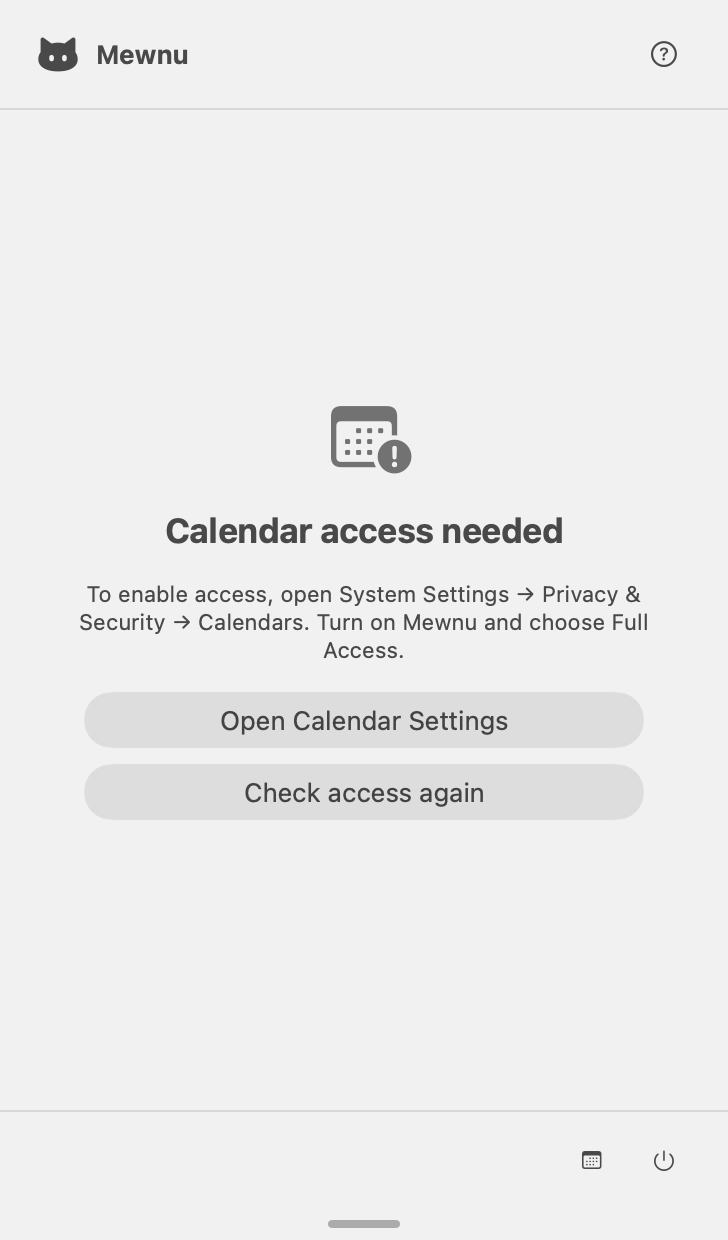
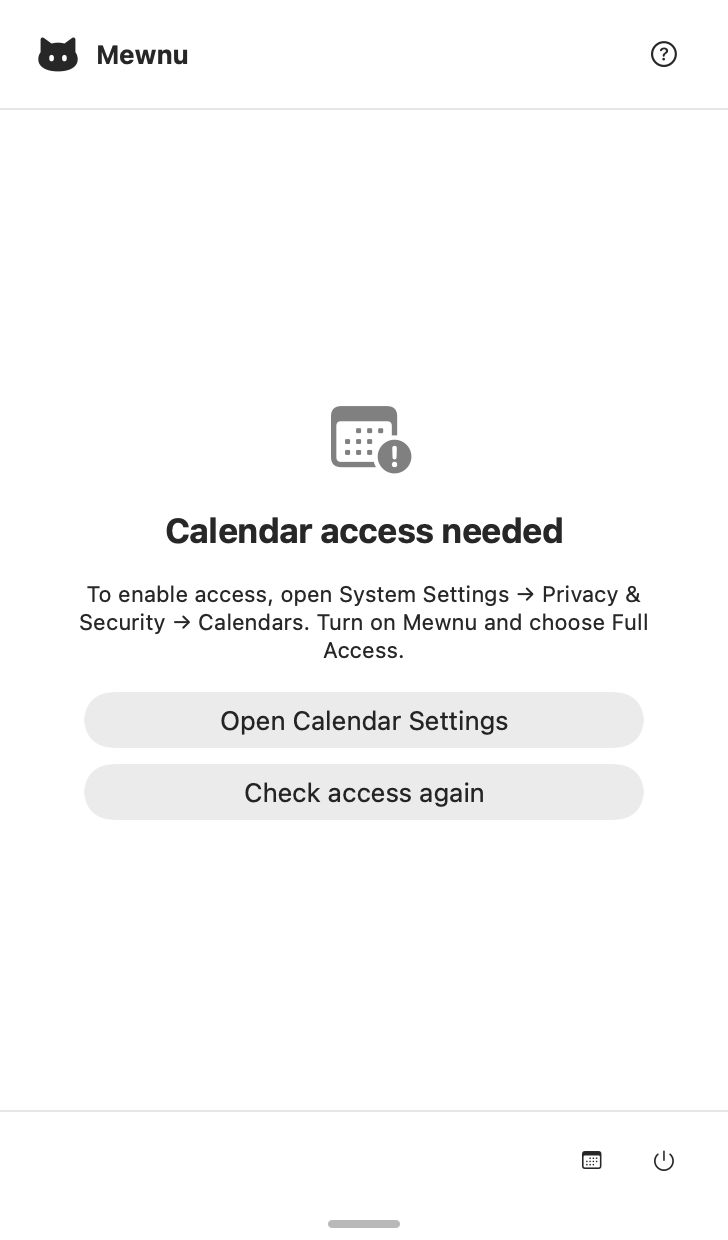
Improve menu contrast in light appearance

diff --git a/Mewnu/Views/MonthGridView.swift b/Mewnu/Views/MonthGridView.swift
@@ -47,7 +47,7 @@ struct MonthGridView: View {
             VStack(spacing: 2) {
                 Text("\(calendar.component(.day, from: date))")
                     .font(.system(size: 13, weight: isSelected ? .bold : (isToday ? .semibold : .regular)))
-                    .foregroundStyle(isSelected ? .white : (isToday ? Color.accentColor : (isCurrentMonth ? .primary : .secondary)))
+                    .foregroundStyle(isSelected ? .white : (isCurrentMonth ? .primary : .secondary))
                 HStack(spacing: 2) {
                     ForEach(indicators.dots) { item in
                         Circle()

diff --git a/MewnuUITests/MewnuUITests.swift b/MewnuUITests/MewnuUITests.swift
@@ -149,7 +149,9 @@ final class MewnuUITests: XCTestCase {
         app.launchArguments.append("-ui-testing")
         app.launch()
         let statusItem = openMenu(app)
-        XCTAssertTrue(app.staticTexts["monthTitle"].waitForExistence(timeout: 5))
+        let monthTitle = app.staticTexts["monthTitle"]
+        if !monthTitle.waitForExistence(timeout: 5) { statusItem.click() }
+        XCTAssertTrue(monthTitle.waitForExistence(timeout: 5))
         app.buttons["nextMonthButton"].click()
         app.buttons["todayButton"].click()
         app.buttons["calendarFilterButton"].click()

diff --git a/scripts/documentation-screenshots.swift b/scripts/documentation-screenshots.swift
@@ -63,7 +63,9 @@ private struct DocumentationScreenshots {
     static func main() {
         let app = NSApplication.shared
         app.setActivationPolicy(.prohibited)
-        app.appearance = NSAppearance(named: .aqua)
+        let appearance: NSAppearance.Name = ProcessInfo.processInfo.environment["MEWNU_SCREENSHOT_APPEARANCE"] == "dark"
+            ? .darkAqua : .aqua
+        app.appearance = NSAppearance(named: appearance)
         let output = URL(fileURLWithPath: CommandLine.arguments[1], isDirectory: true)
 
         Task { @MainActor in

diff --git a/Mewnu/Views/ContentView.swift b/Mewnu/Views/ContentView.swift
@@ -46,7 +46,7 @@ struct ContentView: View {
             resizeHandle
         }
         .frame(width: MenuWindowSize.width, height: displayedHeight)
-        .background(.regularMaterial)
+        .background(Color(nsColor: .windowBackgroundColor))
         .task { await model.activate() }
         .onReceive(NotificationCenter.default.publisher(for: NSApplication.didBecomeActiveNotification)) { _ in
             Task { await model.refresh() }

diff --git a/docs/SCREENSHOTS.md b/docs/SCREENSHOTS.md
@@ -20,6 +20,12 @@ To inspect a new set without replacing the checked-in images:
 scripts/capture-screenshots.sh /tmp/mewnu-screenshot-review
 ```
 
+To check contrast in dark appearance without replacing the README images:
+
+```sh
+MEWNU_SCREENSHOT_APPEARANCE=dark scripts/capture-screenshots.sh /tmp/mewnu-dark-review
+```
+
 The script compiles the asset catalog and the current `Core/` and `Views/`
 Swift sources into a temporary documentation executable. It does not launch
 `MewnuApp`, instantiate `EventKitCalendarService`, request calendar permission,
